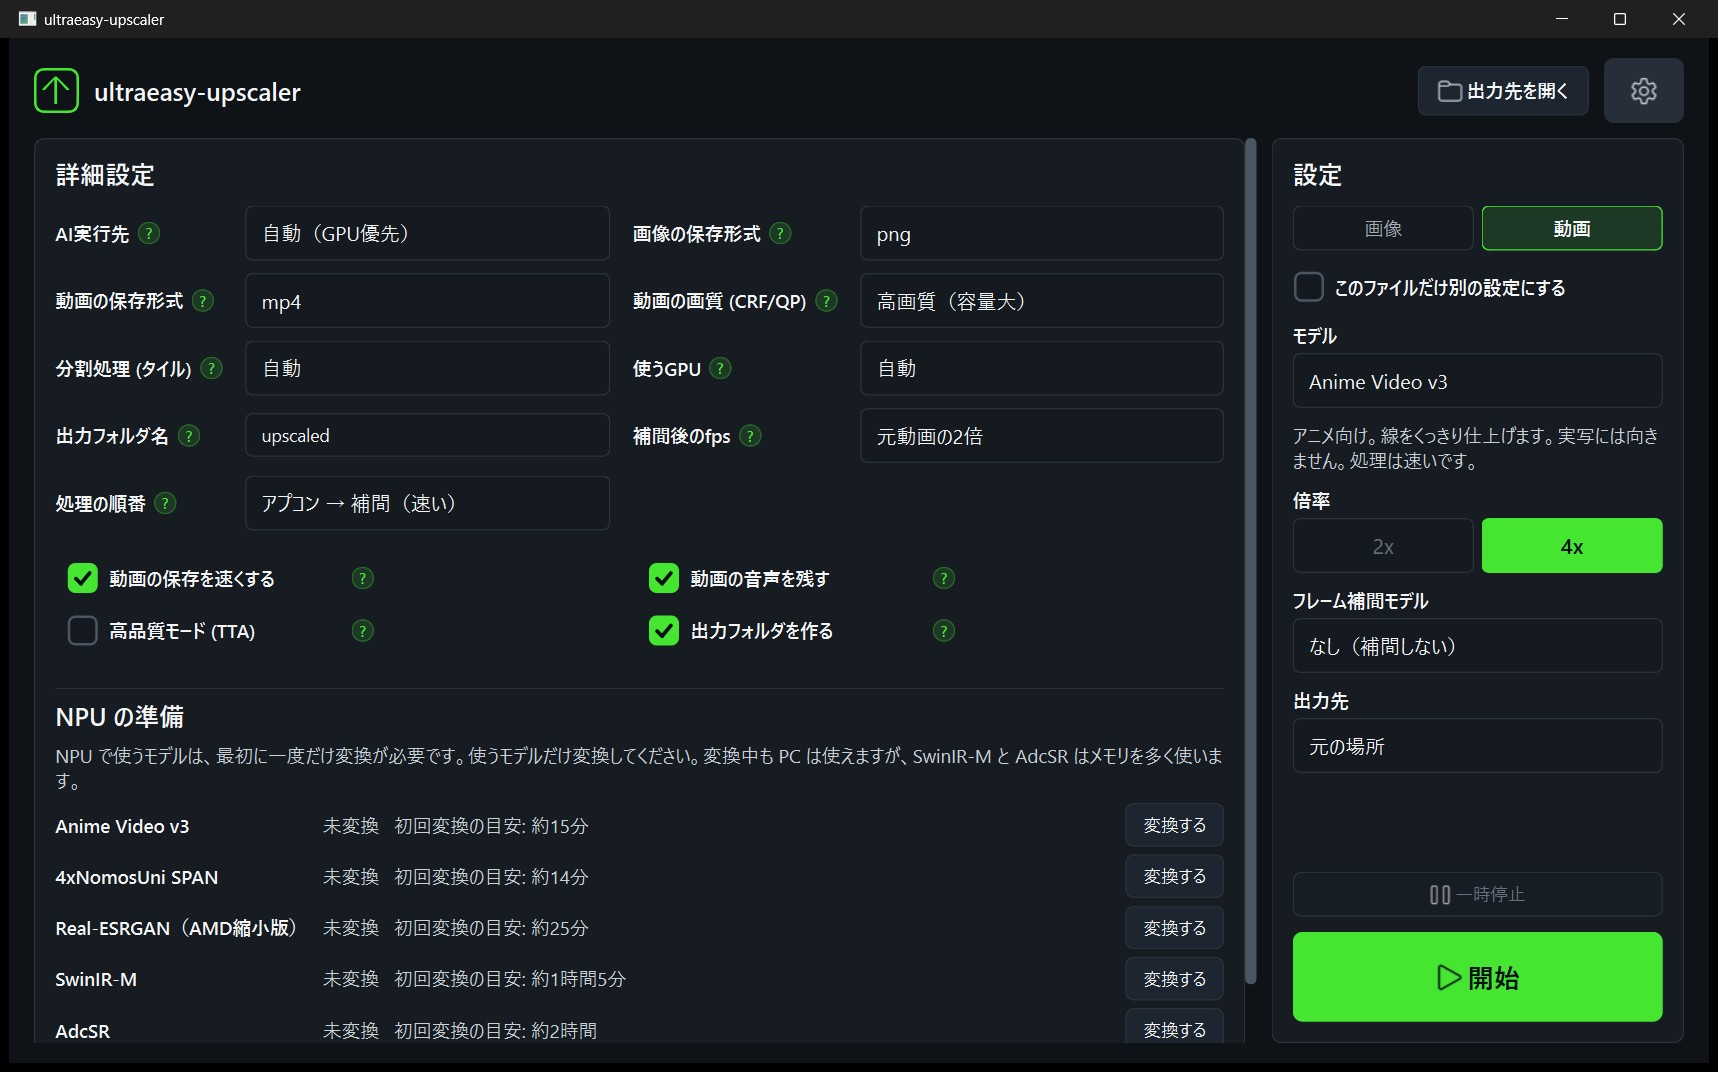
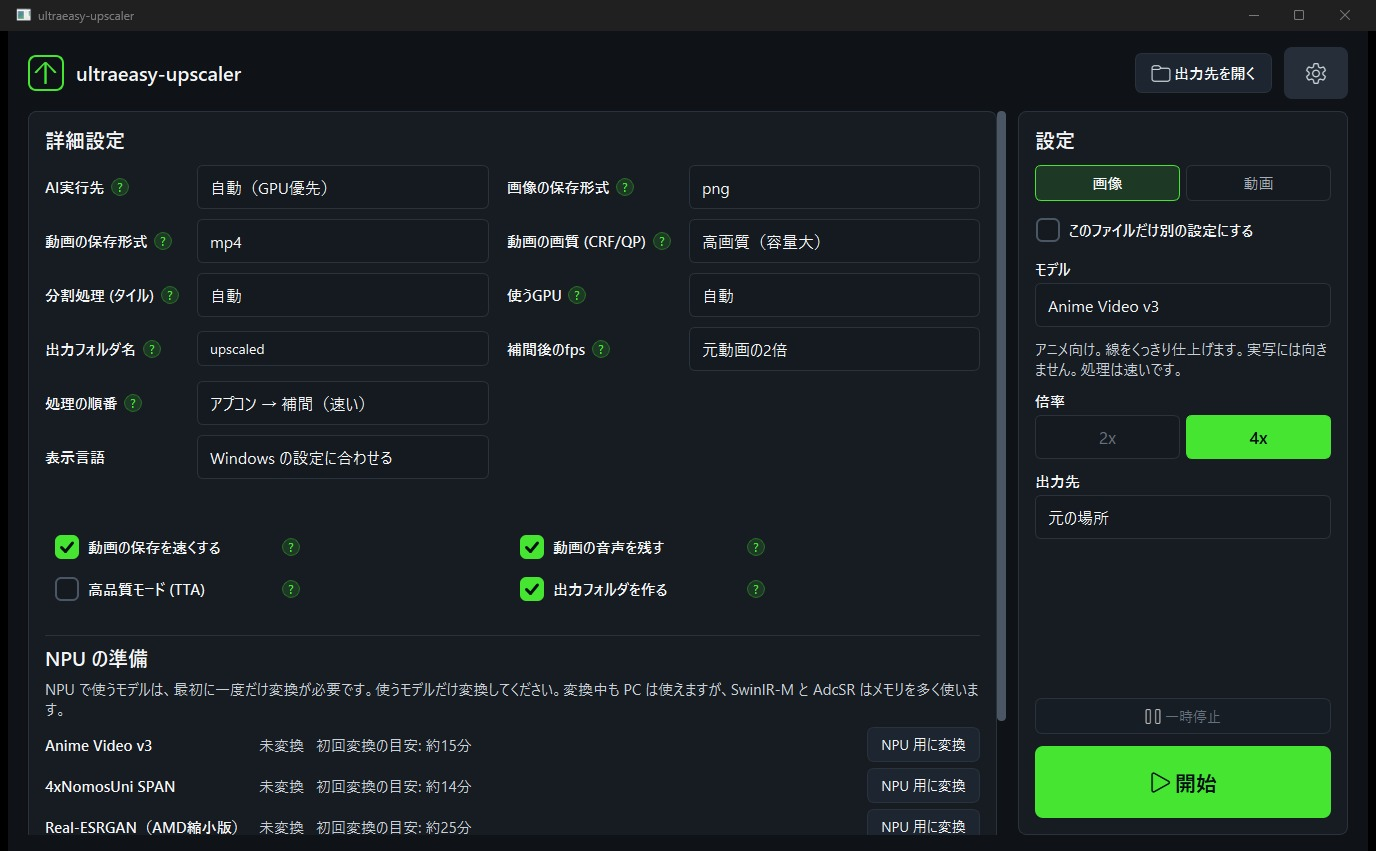
docs: README を v0.11.0（英語対応）に更新、英語の画面写真と比較画像を追加
- README.en.md は英語表示の画面写真と、英語ラベルの比較画像を使う
- 表示言語の説明、「NPU 用に変換」へのボタン名の変更を反映
- make_model_guide.py に --lang en を追加
- test: 英語表示の確認を強化し、ウィンドウを閉じ忘れて一時フォルダを残していたテストを修正

diff --git a/scripts/make_model_guide.py b/scripts/make_model_guide.py
@@ -40,6 +40,11 @@ MODELS = [
     ("AdcSR", HELPER_MODEL_ADCSR),
 ]
 ORIGINAL_LABEL = "オリジナル（Lanczos で 4 倍・AI なし）"
+# 英語版の README 用のラベル（アプリの英語表示と同じ表記）
+EN_LABELS = {
+    ORIGINAL_LABEL: "Original (enlarged 4× with Lanczos, no AI)",
+    "Real-ESRGAN（AMD縮小版）": "Real-ESRGAN (AMD compact)",
+}
 
 # 素材ごとの切り出し範囲（元画像の座標: x, y, w, h）。4 倍後に 752x560 になる。
 SOURCES = {
@@ -54,8 +59,9 @@ BACKGROUND = (20, 20, 20)
 LABEL_COLOR = (235, 235, 235)
 
 
-def _font(size: int) -> ImageFont.FreeTypeFont:
-    for name in ("YuGothM.ttc", "meiryo.ttc", "msgothic.ttc"):
+def _font(size: int, lang: str = "ja") -> ImageFont.FreeTypeFont:
+    names = ("segoeui.ttf",) if lang == "en" else ()
+    for name in (*names, "YuGothM.ttc", "meiryo.ttc", "msgothic.ttc"):
         path = Path("C:/Windows/Fonts") / name
         if path.is_file():
             return ImageFont.truetype(str(path), size)
@@ -73,7 +79,7 @@ def _upscaled(src: Path, model_key: str, work: Path) -> Path:
     return out
 
 
-def make_sheet(name: str, sources: Path, work: Path, dest: Path) -> None:
+def make_sheet(name: str, sources: Path, work: Path, dest: Path, lang: str = "ja") -> None:
     filename, (x, y, w, h) = SOURCES[name]
     src = sources / filename
     box = (x * 4, y * 4, (x + w) * 4, (y + h) * 4)
@@ -92,14 +98,16 @@ def make_sheet(name: str, sources: Path, work: Path, dest: Path) -> None:
         BACKGROUND,
     )
     draw = ImageDraw.Draw(sheet)
-    font = _font(20)
+    font = _font(20, lang)
     for index, (label, tile) in enumerate(tiles):
+        if lang == "en":
+            label = EN_LABELS.get(label, label)
         left = (index % COLUMNS) * (tile_w + GAP)
         top = (index // COLUMNS) * (LABEL_HEIGHT + tile_h + GAP)
         draw.text((left + 10, top + 5), label, font=font, fill=LABEL_COLOR)
         sheet.paste(tile, (left, top + LABEL_HEIGHT))
     dest.mkdir(parents=True, exist_ok=True)
-    out = dest / f"model_guide_{name}.png"
+    out = dest / (f"model_guide_{name}_en.png" if lang == "en" else f"model_guide_{name}.png")
     sheet.save(out, optimize=True)
     print(f"{out} {sheet.size}", flush=True)
 
@@ -110,10 +118,11 @@ def main() -> int:
     parser.add_argument("--work", type=Path, default=ROOT / "tmp" / "model-guide")
     parser.add_argument("--dest", type=Path, default=ROOT / "docs" / "benchmarks")
     parser.add_argument("--only", choices=sorted(SOURCES), nargs="*")
+    parser.add_argument("--lang", choices=("ja", "en"), default="ja", help="ラベルの言語")
     args = parser.parse_args()
     args.work.mkdir(parents=True, exist_ok=True)
     for name in args.only or sorted(SOURCES):
-        make_sheet(name, args.sources, args.work, args.dest)
+        make_sheet(name, args.sources, args.work, args.dest, args.lang)
     return 0
 
 

diff --git a/tests/test_i18n.py b/tests/test_i18n.py
@@ -305,7 +305,7 @@ def test_language_row_restores_saved():
     application  # noqa: B018 - インスタンス維持の意図を明示
 
 
-# --- 既定英語でも起動直後の GUI が壊れない（いまは日本語が出るだけ） ---
+# --- 英語にしたとき、起動直後の画面が英語で出る ---
 
 def test_main_window_boots_in_english():
     from PySide6.QtWidgets import QApplication
@@ -314,16 +314,23 @@ def test_main_window_boots_in_english():
 
     application = QApplication.instance() or QApplication([])
     set_language("en")
+    win = None
     try:
         win = MainWindow()
         win.show()
         application.processEvents()
         assert win.windowTitle().startswith("ultraeasy-upscaler")
-        assert win.start_btn.text() != ""
-        assert win.model_combo.count() > 0
-        assert win.model_combo.itemText(0) != ""
+        assert win.start_btn.text() == "Start"
+        assert win.pause_btn.text() == "Pause"
+        assert win.model_combo.itemText(0) == "None (no upscaling)"
+        # 印（◎など）は英語では言葉になる
+        assert "Speed: High" in win.model_combo.itemText(1)
+        assert win.model_hint.text().startswith("For anime.")
         assert win.drawer.language_combo.count() == 3
     finally:
+        # 閉じないと試し用の一時フォルダが残る
+        if win is not None:
+            win.close()
         set_language("ja")
         application.processEvents()
 

diff --git a/README.en.md b/README.en.md
@@ -2,7 +2,7 @@
 
 [日本語](README.md)
 
-**[⬇ Download ultraeasy-upscaler v0.10.0](https://github.com/tomhda/ultraeasy-upscaler/releases/download/v0.10.0/ultraeasy-upscaler-portable-win64.zip)**
+**[⬇ Download ultraeasy-upscaler v0.11.0](https://github.com/tomhda/ultraeasy-upscaler/releases/download/v0.11.0/ultraeasy-upscaler-portable-win64.zip)**
 (zip for Windows x64, 376 MB). See [Install](#install) for the steps.
 
 ultraeasy-upscaler is a Windows app that upscales images and videos, and interpolates video frames, with a few clicks.
@@ -11,7 +11,7 @@ It supports up to five super-resolution models, including Real-ESRGAN, and the R
 You can drop in many files and process them in one go. It runs on a GPU, and on the NPU of some PCs.
 You can compare the results of several models side by side, and for a video you can process one chosen frame first to check the result.
 
-![A photo tried with AdcSR, shown at 100% with the original on the left and the result on the right](docs/images/compare-zoom.jpg)
+![A photo tried with AdcSR, shown at 100% with the original on the left and the result on the right](docs/images/compare-zoom-en.jpg)
 
 ## What it does
 
@@ -33,13 +33,11 @@ You can compare the results of several models side by side, and for a video you 
 ▼ The main window. The media list is on the left, the preview is in the middle, and the settings are on the right.
 The preview shows a photo after it was tried with AdcSR: the original is left of the divider and the result is right of it.
 
-![The main window](docs/images/main.jpg)
+![The main window](docs/images/main-en.jpg)
 
 ▼ The comparison can also be shown at 100%.
 
-![Comparison at 100%](docs/images/compare-zoom.jpg)
-
-The screenshots show the Japanese interface.
+![Comparison at 100%](docs/images/compare-zoom-en.jpg)
 
 Material used:
 [Big Buck Bunny](https://peach.blender.org) and [Tears of Steel](https://mango.blender.org) (both © Blender Foundation, CC BY 3.0),
@@ -49,7 +47,7 @@ and Superman (1941), which is in the public domain.
 
 Tested on Windows 11 (x64) with a DirectX 12 GPU.
 
-1. Download [`ultraeasy-upscaler-portable-win64.zip`](https://github.com/tomhda/ultraeasy-upscaler/releases/download/v0.10.0/ultraeasy-upscaler-portable-win64.zip).
+1. Download [`ultraeasy-upscaler-portable-win64.zip`](https://github.com/tomhda/ultraeasy-upscaler/releases/download/v0.11.0/ultraeasy-upscaler-portable-win64.zip).
 2. Extract the zip anywhere you like. It is a portable app and needs no installation.
 3. Run `ultraeasy-upscaler.exe`. The file is not code-signed, so Windows SmartScreen may show "Windows protected your PC". Select **More info**, then **Run anyway**.
 
@@ -88,7 +86,8 @@ To uninstall, delete the extracted folder.
 
 ### More settings
 
-- The gear at the top right opens settings for where the AI runs, the file format, video quality, the output folder name, the frame rate after interpolation, and more.
+- The gear at the top right opens settings for where the AI runs, the file format, video quality, the output folder name, the frame rate after interpolation, the display language, and more.
+- The interface is available in English and Japanese. It starts in the Windows display language, and you can change it under **Display language** (the change takes effect the next time the app starts).
 
 ## Choosing a model
 
@@ -112,19 +111,19 @@ Times are for enlarging one 854×480 image 4× on a Radeon 860M (the integrated 
 Results enlarged 4×.
 Top row, left to right: the original (enlarged 4× with Lanczos, no AI), Anime Video v3, 4xNomosUni SPAN.
 Bottom row, left to right: Real-ESRGAN (AMD compact), SwinIR-M, AdcSR.
-All of them were run on the GPU with DirectML. The labels in the images are in Japanese.
+All of them were run on the GPU with DirectML.
 
 Toon CG: Big Buck Bunny (480p)
 
-![Big Buck Bunny](docs/benchmarks/model_guide_bbb.png)
+![Big Buck Bunny](docs/benchmarks/model_guide_bbb_en.png)
 
 Cel animation: Superman (1941, 320×240)
 
-![Superman 1941](docs/benchmarks/model_guide_sup.png)
+![Superman 1941](docs/benchmarks/model_guide_sup_en.png)
 
 Live action: Tears of Steel (720p)
 
-![Tears of Steel](docs/benchmarks/model_guide_tos.png)
+![Tears of Steel](docs/benchmarks/model_guide_tos_en.png)
 
 - Anime Video v3: tidies details and smooths the picture. The strongest on old, degraded material.
 - 4xNomosUni SPAN: keeps the original texture and grain. Its processing is mild, and the cleaner the source, the better it suits.
@@ -137,9 +136,9 @@ Live action: Tears of Steel (720p)
 On AMD Ryzen AI PCs, downloading an extra kit lets the app process on the NPU. The NPU becomes selectable when both of the following are in place.
 
 - AMD's [Ryzen AI Software 1.8.0](https://ryzenai.docs.amd.com/en/latest/inst.html) (get it from AMD and install it; NPU driver 32.0.203.329 or later)
-- [`ultraeasy-upscaler-npu-kit.zip`](https://github.com/tomhda/ultraeasy-upscaler/releases/download/v0.10.0/ultraeasy-upscaler-npu-kit.zip) (56 MB)
+- [`ultraeasy-upscaler-npu-kit.zip`](https://github.com/tomhda/ultraeasy-upscaler/releases/download/v0.11.0/ultraeasy-upscaler-npu-kit.zip) (56 MB)
 
-To use AdcSR on the NPU, you also need the NPU-only model [`ultraeasy-upscaler-npu-kit-adcsr.zip`](https://github.com/tomhda/ultraeasy-upscaler/releases/download/v0.10.0/ultraeasy-upscaler-npu-kit-adcsr.zip) (1.7 GB).
+To use AdcSR on the NPU, you also need the NPU-only model [`ultraeasy-upscaler-npu-kit-adcsr.zip`](https://github.com/tomhda/ultraeasy-upscaler/releases/download/v0.11.0/ultraeasy-upscaler-npu-kit-adcsr.zip) (1.7 GB).
 
 Steps:
 
@@ -149,7 +148,7 @@ Steps:
 
 ▼ **NPU setup**. Each model shows an estimate of how long its conversion for the NPU takes.
 
-![NPU setup](docs/images/npu-prepare.jpg)
+![NPU setup](docs/images/npu-prepare-en.jpg)
 
 Time and memory needed to convert a model for the NPU (measured on a Ryzen AI 7 PRO 350):
 
@@ -197,5 +196,5 @@ Running from source, the requirements of each engine, measurements, environment 
 | RIFE v4.6 | hzwer ([Practical-RIFE](https://github.com/hzwer/Practical-RIFE)) | MIT |
 
 - The portable build bundles FFmpeg (GPL v3), Qt 6 / PySide6 (LGPL v3), realesrgan-ncnn-vulkan (MIT), rife-ncnn-vulkan (MIT), the Microsoft Windows ML runtime, and others.
-  The list and where to get each one are in `THIRD-PARTY-NOTICES.txt` in the zip (in Japanese), and the full texts of the model licenses are in the `models\ai` folder.
+  The list and where to get each one are in `THIRD-PARTY-NOTICES.en.txt` in the zip, and the full texts of the model licenses are in the `models\ai` folder.
 - Material in the screenshots and comparison images: [Big Buck Bunny](https://peach.blender.org) and [Tears of Steel](https://mango.blender.org) (© Blender Foundation, CC BY 3.0), and Superman (1941), which is in the public domain.
